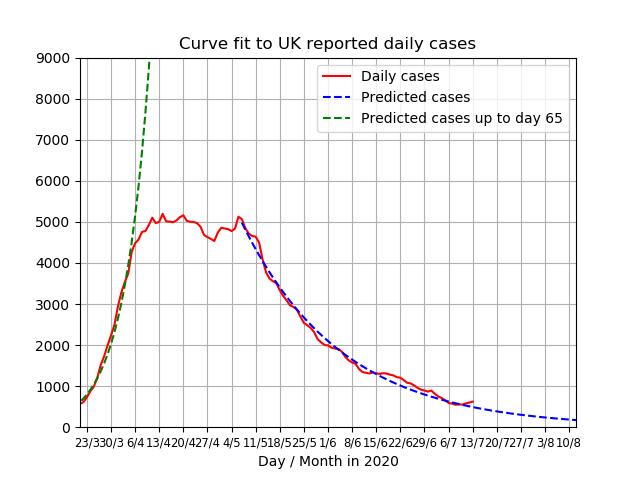
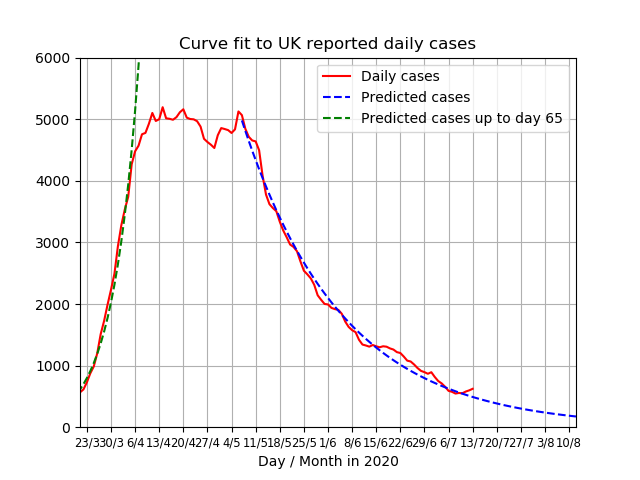
Daily run

diff --git a/src/curvefit.py b/src/curvefit.py
@@ -27,7 +27,7 @@ offset_high = 20
 # Day to start plot at
 plt_start = 51
 # Maximum cases to show on plot
-max_cases_plt = 9000
+max_cases_plt = 6000
 max_deaths_plt = 1000
 # Day to start doubliong time calc and plot
 doubling_time_start = 50  # Day to start doubliong time calc and plot

diff --git a/README.md b/README.md
@@ -46,4 +46,4 @@ Output Details
 4 13%
 <h4>Average Error</h4>
 65.48
-<br /><br />Last updated on 2020-07-14 11:39:53.333634
+<br /><br />Last updated on 2020-07-14 11:43:04.920235

diff --git a/out/fit.md b/out/fit.md
@@ -10,4 +10,4 @@
 4 13%
 <h4>Average Error</h4>
 65.48
-<br /><br />Last updated on 2020-07-14 11:39:53.333634
+<br /><br />Last updated on 2020-07-14 11:43:04.920235
